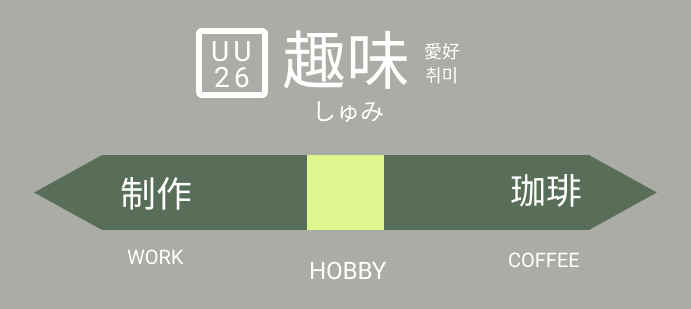
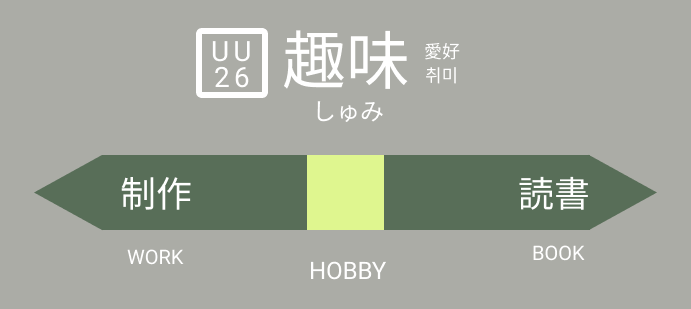
wip　コンフリクトでデータ消失してしまった

Changed region(s): [[0.7294, 0.5534, 0.8509, 0.699], [0.7294, 0.7864, 0.8509, 0.8738]]

diff --git a/header.php b/header.php
@@ -34,7 +34,7 @@
     <link ref="stylesheet" href="<?php echo get_template_directory_uri(); ?>/style.css">
     <link rel="stylesheet" href="<?php echo get_template_directory_uri(); ?>/destyle.css">
 
-    <!-- font awsome読み込み -->
+    <!-- Font Awesome読み込み -->
     <link href="https://use.fontawesome.com/releases/v5.15.1/css/all.css" rel="stylesheet">
 
     <?php wp_head(); ?>
@@ -216,6 +216,10 @@
             /* 縦横中央 */
 
         }
+
+        .fa-mg {
+            margin-right: 0.6em;
+        }
     </style>
 
 </head>
@@ -281,6 +285,24 @@
                             Menu
                         </button>
                         <div class="dropdown-menu">
+
+
+                            <div class="d-flex my-2">
+                                <div class="ml-2">
+
+                                    <img src="<?php echo get_template_directory_uri(); ?>/img/logo/home-24px.svg">
+
+                                </div>
+                                <div class="">
+                                    <a class="dropdown-item mt-2" href="/">
+
+                                        ホーム
+                                    </a>
+                                </div>
+
+                            </div>
+
+
                             <div class="d-flex my-2">
                                 <div class="ml-2">
 
@@ -311,7 +333,20 @@
                                 </div>
 
                             </div>
+                            <div class="d-flex my-2">
+                                <div class="ml-2">
 
+                                    <img src="<?php echo get_template_directory_uri(); ?>/img/logo/book-24px.svg">
+
+                                </div>
+                                <div class="">
+                                    <a class="dropdown-item mt-2" href="/book">
+
+                                        読書
+                                    </a>
+                                </div>
+
+                            </div>
 
 
                             <div class="d-flex my-2">
@@ -329,49 +364,18 @@
 
                             </div>
 
-                            <div class="d-flex my-2">
-                                <div class="ml-2">
-
-                                    <img
-                                        src="<?php echo get_template_directory_uri(); ?>/img/logo/account_box-24px.svg">
-
-                                </div>
-                                <div class="">
-                                    <a class="dropdown-item mt-2" href="/aboutme">
-
-                                        個人
-                                    </a>
-                                </div>
-
-                            </div>
-
-
+                            <div class="dropdown-divider"></div>
+                            <a style="font-size:0.8em;" class="dropdown-item my-1" href="/aboutme"><i
+                                    class="fas fa-user-circle fa-mg"></i>私について</a>
+                            <a style="font-size:0.8em;" class="dropdown-item my-1" href="/link"><i
+                                    class="fas fa-link fa-mg"></i>リンク集</a>
+                            <a style="font-size:0.6em;" class="dropdown-item my-1" href="/privacy-policy">プライバシーポリシー</a>
 
                             <div class="dropdown-divider"></div>
-
-                            <div class="d-flex my-2">
-                                <div class="ml-2">
-
-                                    <img src="<?php echo get_template_directory_uri(); ?>/img/logo/home-24px.svg">
-
-                                </div>
-                                <div class="">
-                                    <a class="dropdown-item mt-2" href="/">
-
-                                        ホーム
-                                    </a>
-                                </div>
-
-                            </div>
-                            <a style="font-size:0.6em;" class="dropdown-item" href="/privacy-policy">プライバシーポリシー</a>
-                            <a style="font-size:0.6em;" class="dropdown-item" href="/link"><i
-                                    class="fas fa-link"></i>リンク集</a>
-
-                            <div class="dropdown-divider"></div>
-                            <a style="font-size:0.9em;" class="dropdown-item" href="https://twitter.com/usuyuki26"
-                                target=”_blank”>Twitter</a>
-                            <a style="font-size:0.9em;" class="dropdown-item" href="https://github.com/Usuyuki"
-                                target=”_blank”>GitHub</a>
+                            <a style="font-size:0.8em;" class="dropdown-item" href="https://twitter.com/usuyuki26"
+                                target=”_blank”><i class="fab fa-twitter fa-mg"></i>Twitter</a>
+                            <a style="font-size:0.8em;" class="dropdown-item" href="https://github.com/Usuyuki"
+                                target=”_blank”><i class="fab fa-github fa-mg"></i>GitHub</a>
 
                         </div>
                     </div>

diff --git a/sidebar.php b/sidebar.php
@@ -48,7 +48,16 @@
                 </a>
             </div>
 
-
+            <div class="side-menu-link row text-center mt-5">
+                <a href="/book" class="text-decoration-none col">
+                    <div class="side-menu-link-icon mb-2">
+                        <img src="<?php echo get_template_directory_uri(); ?>/img/logo/book-24px.svg">
+                    </div>
+                    <div class="side-menu-link-name text-decoration-none text-black h5">
+                        <p>読書</p>
+                    </div>
+                </a>
+            </div>
 
             <div class="side-menu-link row text-center mt-5">
                 <a href="/coffee" class="text-decoration-none col">
@@ -62,21 +71,14 @@
             </div>
 
             <div class="side-menu-link row text-center mt-5">
-                <a href="/aboutme" class="text-decoration-none col">
-                    <div class="side-menu-link-icon mb-2">
-                        <img src="<?php echo get_template_directory_uri(); ?>/img/logo/account_box-24px.svg">
-                    </div>
-                    <div class="side-menu-link-name text-black h5">
-                        <p>個人</p>
-                    </div>
-                </a>
+
             </div>
 
 
         </div>
         <div class="side-contact row d-flex justify-content-around mx-1">
 
-
+            <!-- 
             <div class="side-menu-sns  text-center"><a href="https://twitter.com/usuyuki26" class="text-decoration-none"
                     target=”_blank”>
                     <p class="text-black"><i class="fab fa-twitter"></i></p>
@@ -91,9 +93,16 @@
                     class="text-decoration-none" target=”_blank”>
                     <p class="text-black"><i class="fab fa-youtube"></i></p>
                 </a>
+            </div> -->
+
+            <div class="side-menu-sns  text-center"><a href="/aboutme" class="text-decoration-none" target=”_blank”>
+                    <p class="text-black mt-1" style="font-size:0.85em;"><i class="fas fa-user-circle fa-mg"></i>私について
+                    </p>
+                </a>
             </div>
+
             <div class="side-menu-sns  text-center"><a href="/link" class="text-decoration-none" target=”_blank”>
-                    <p class="text-black mt-1" style="font-size:0.85em;"><i class="fas fa-link"></i>リンク集
+                    <p class="text-black mt-1" style="font-size:0.85em;"><i class="fas fa-link fa-mg"></i>リンク集
                     </p>
                 </a>
             </div>

diff --git a/archive-book.php b/archive-book.php
@@ -3,7 +3,7 @@
 <div class="col-md-10 ">
     <div class="ekimeihyou text-center mt-3 mb-5">
         <!-- <p class="h1 mx-auto text-center">Hello World</p> -->
-        <img src="<?php echo get_template_directory_uri(); ?>/img/station/coffee.png" usemap="#ImageMap" alt="珈琲ページ">
+        <img src="<?php echo get_template_directory_uri(); ?>/img/station/book.png" usemap="#ImageMap" alt="珈琲ページ">
         <map name="ImageMap">
             <area shape="rect" coords="101,155,307,231" href="/work" alt="" />
             <area shape="rect" coords="104,240,231,274" href="/work" alt="" />
@@ -23,11 +23,11 @@
         <div class="latest-coffee text-white d-flex mb-4 d-none d-md-block">
             <?php
                 $args = array(
-                    'post_type' => 'coffee',
-                    'numberposts' => 1,
+                    'post_type' => 'book',
+                    'numberposts' => -1,
                     'post_status' => 'publish',
                     'orderby' => 'meta_value',
-                    'meta_key' => 'coffee_date', //ACFのフィールド名
+                    'meta_key' => 'book_read', //ACFのフィールド名
                     'order' => 'DESC'
                 );
 
@@ -42,16 +42,7 @@
             <!-- 画像 -->
             <div class="mr-3  d-none d-md-block">
                 <a href="<?php echo get_permalink(); ?>">
-                    <?php 
-                    $image = get_field('coffee_img');
-                    $size = 'thumbnail'; // (thumbnail, medium, large, full or custom size)
-                    if( $image ) {
-                        echo wp_get_attachment_image( $image, $size );
-                    }
-                    else{
-                        echo  wp_get_attachment_image( 126, $size );
-                    }
-                ?>
+                    <?php  the_field ("book_img_link" ); ?>
                 </a>
             </div>
 

diff --git a/archive-coffee.php b/archive-coffee.php
@@ -5,8 +5,8 @@
         <!-- <p class="h1 mx-auto text-center">Hello World</p> -->
         <img src="<?php echo get_template_directory_uri(); ?>/img/station/coffee.png" usemap="#ImageMap" alt="珈琲ページ">
         <map name="ImageMap">
-            <area shape="rect" coords="101,155,307,231" href="/hobby" alt="" />
-            <area shape="rect" coords="104,240,231,274" href="/hobby" alt="" />
+            <area shape="rect" coords="101,155,307,231" href="/book" alt="" />
+            <area shape="rect" coords="104,240,231,274" href="/book" alt="" />
             <area shape="rect" coords="385,155,592,230" href="/aboutme" alt="" />
             <area shape="rect" coords="477,241,591,277" href="/aboutme" alt="" />
         </map>

diff --git a/archive-hobby.php b/archive-hobby.php
@@ -8,8 +8,8 @@
         <map name="ImageMap">
             <area shape="rect" coords="101,155,307,231" href="/work" alt="" />
             <area shape="rect" coords="104,240,231,274" href="/work" alt="" />
-            <area shape="rect" coords="385,155,592,230" href="/coffee" alt="" />
-            <area shape="rect" coords="477,241,591,277" href="/coffee" alt="" />
+            <area shape="rect" coords="385,155,592,230" href="/book" alt="" />
+            <area shape="rect" coords="477,241,591,277" href="/book" alt="" />
         </map>
 
     </div>

diff --git a/archive-link.php b/archive-link.php
@@ -7,7 +7,7 @@
 
     <!-- 日付順でソート -->
     <div class="mx-auto pt-4">
-        <div class="latest-coffee text-white  mb-4 d-flex justify-content-center ">
+        <div class="latest-coffee text-white  mb-4 d-flex flex-wrap justify-content-around ">
             <?php
                 $args = array(
                     'post_type' => 'link',
